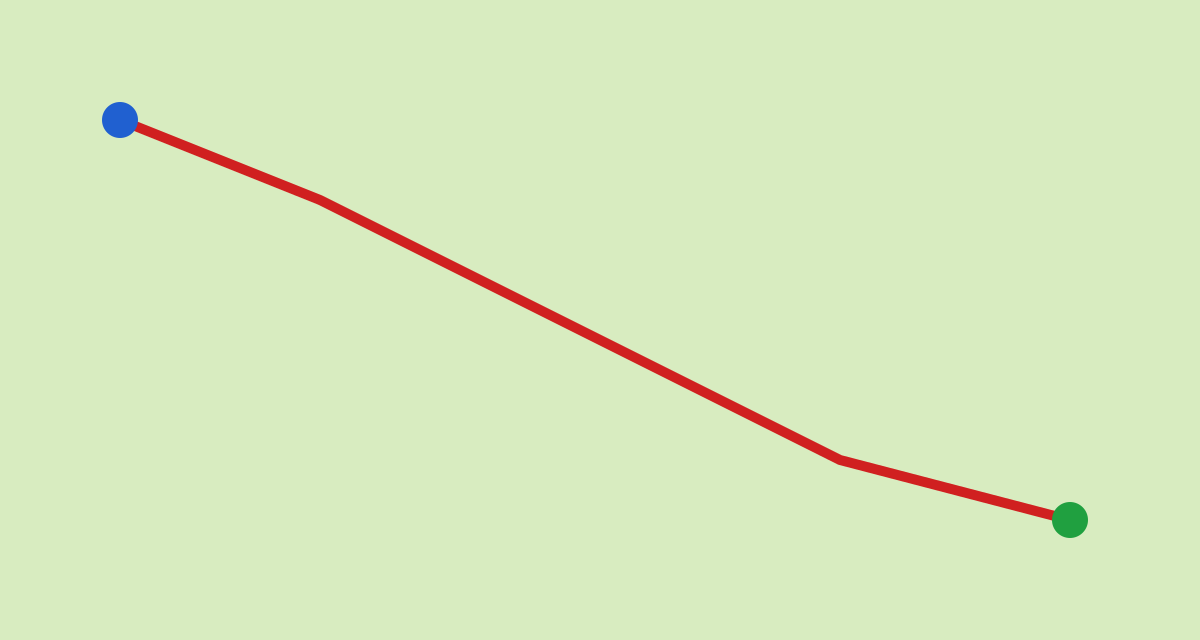
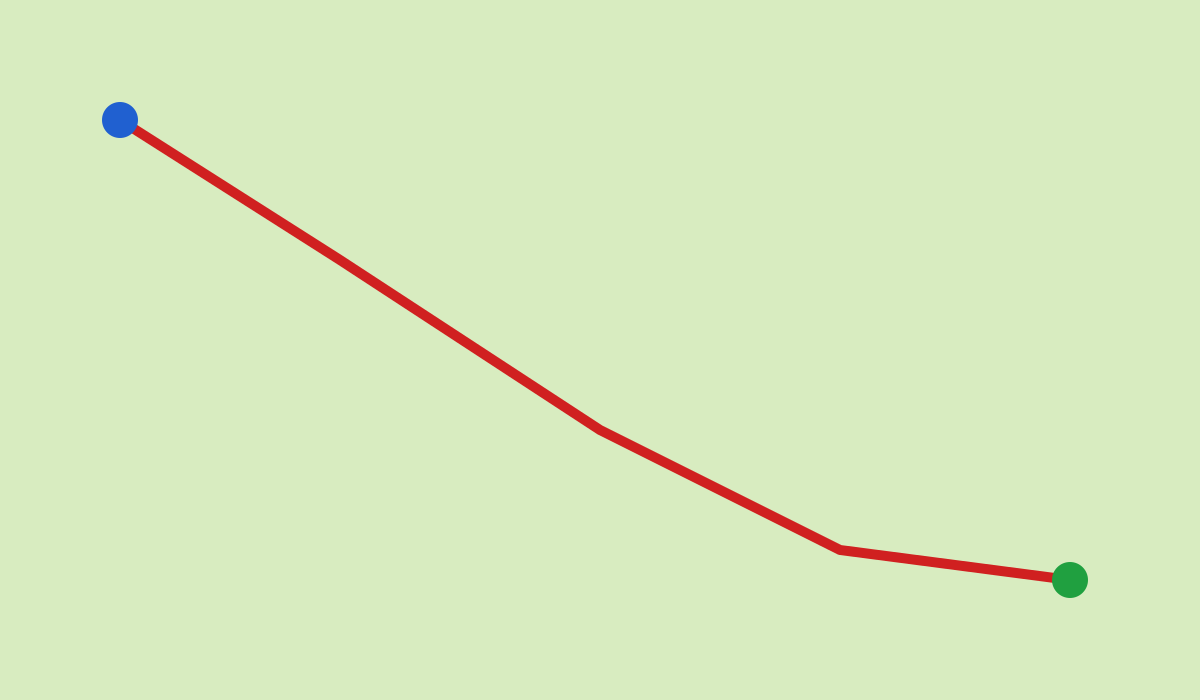
fix: School lower and left, roads door to door and clear of every building; guides and road aspect ratios updated

diff --git a/EvasLearningWorld/Assets/Eva/Tests/PlacesTests.cs b/EvasLearningWorld/Assets/Eva/Tests/PlacesTests.cs
@@ -50,11 +50,11 @@ namespace EvasLearningWorld.Tests
         public void InitialCompositionMatchesTheSpecNumbers()
         {
             AssertBox(Places.Find(PlaceId.House).TapBox, 60f, -30f, 320f, 280f);
-            AssertBox(Places.Find(PlaceId.School).TapBox, -400f, 40f, 280f, 240f);
-            AssertBox(Places.Find(PlaceId.Store).TapBox, 470f, -250f, 280f, 240f);
+            AssertBox(Places.Find(PlaceId.School).TapBox, -470f, -10f, 280f, 240f);
+            AssertBox(Places.Find(PlaceId.Store).TapBox, 490f, -225f, 280f, 240f);
             AssertPoint(Places.Find(PlaceId.House).StandingSpot, -120f, -300f);
-            AssertPoint(Places.Find(PlaceId.School).StandingSpot, -400f, -120f);
-            AssertPoint(Places.Find(PlaceId.Store).StandingSpot, 535f, -390f);
+            AssertPoint(Places.Find(PlaceId.School).StandingSpot, -470f, -170f);
+            AssertPoint(Places.Find(PlaceId.Store).StandingSpot, 535f, -420f);
             AssertPoint(Places.Junction, 60f, -190f);
             AssertPoint(Places.InitialView, 0f, 0f);
         }
@@ -118,6 +118,30 @@ namespace EvasLearningWorld.Tests
             for (var i = 1; i < school.Count; i++)
             for (var j = 1; j < store.Count; j++)
                 Assert.IsFalse(Crosses(school[i - 1], school[i], store[j - 1], store[j]) && !(i == 1 && j == 1), "roads cross");
+        }
+
+        // A road never runs through any building's tap box (the ends stop at the door, just outside it).
+        [Test]
+        public void RoadsNeverEnterAnyTapBox()
+        {
+            foreach (var place in Places.All)
+            foreach (var building in Places.All)
+            {
+                var box = building.TapBox;
+                for (var i = 0; i < place.Road.Count; i++)
+                {
+                    Assert.IsFalse(box.Contains(place.Road[i]), place.Id + " road point " + i + " is inside the " + building.Id + " tap box");
+                    if (i == 0) continue;
+                    var a = place.Road[i - 1];
+                    var b = place.Road[i];
+                    for (var s = 1; s < 200; s++)
+                    {
+                        var t = s / 200f;
+                        Assert.IsFalse(box.Contains(new WorldPoint(a.X + (b.X - a.X) * t, a.Y + (b.Y - a.Y) * t)),
+                            place.Id + " road segment " + i + " runs through the " + building.Id + " tap box");
+                    }
+                }
+            }
         }
 
         // True when two segments properly intersect (a shared start point does not count; callers skip the first pair).

diff --git a/EvasLearningWorld/Assets/Eva/Rules/Places.cs b/EvasLearningWorld/Assets/Eva/Rules/Places.cs
@@ -85,21 +85,21 @@ namespace EvasLearningWorld.Rules
             new Place(PlaceId.House, "House", new WorldBox(60f, -30f, 320f, 280f),
                 new[] { Junction }, new WorldPoint(-120f, -300f), null,
                 "world/place_house", null, "place_house"),
-            new Place(PlaceId.School, "School", new WorldBox(-400f, 40f, 280f, 240f),
+            new Place(PlaceId.School, "School", new WorldBox(-470f, -10f, 280f, 240f),
                 new[]
                 {
-                    Junction, new WorldPoint(-40f, -200f), new WorldPoint(-180f, -190f),
-                    new WorldPoint(-320f, -150f), new WorldPoint(-400f, -120f)
+                    Junction, new WorldPoint(-40f, -205f), new WorldPoint(-200f, -200f),
+                    new WorldPoint(-350f, -185f), new WorldPoint(-470f, -170f)
                 },
-                new WorldPoint(-400f, -120f), new WorldBox(-170f, -160f, 580f, 200f),
+                new WorldPoint(-470f, -170f), new WorldBox(-205f, -188f, 650f, 200f),
                 "world/place_school", "world/road_school", "place_school"),
-            new Place(PlaceId.Store, "Store", new WorldBox(470f, -250f, 280f, 240f),
+            new Place(PlaceId.Store, "Store", new WorldBox(490f, -225f, 280f, 240f),
                 new[]
                 {
-                    Junction, new WorldPoint(160f, -230f), new WorldPoint(300f, -300f),
-                    new WorldPoint(420f, -360f), new WorldPoint(535f, -390f)
+                    Junction, new WorldPoint(170f, -260f), new WorldPoint(300f, -345f),
+                    new WorldPoint(420f, -405f), new WorldPoint(535f, -420f)
                 },
-                new WorldPoint(535f, -390f), new WorldBox(300f, -290f, 600f, 320f),
+                new WorldPoint(535f, -420f), new WorldBox(300f, -305f, 600f, 350f),
                 "world/place_store", "world/road_store", "place_store"),
         };
 

diff --git a/art/eva/map/PROMPTS.md b/art/eva/map/PROMPTS.md
@@ -30,7 +30,7 @@ Add: "If your tool can produce a real transparent background, use that instead o
 
 Attach `layout-guide.png`; one prompt each.
 
-Use the small per-road guides instead of the big layout guide: attach `road_school_guide.png` for the School road and `road_store_guide.png` for the Store road (one prompt each). "Attached is a guide picture with a red line, a blue dot at the start and a green dot at the end. Draw ONE natural dirt footpath for a children's game map that runs exactly along the red line, from the blue dot to the green dot: the middle of the path must lie on the red line the whole way, and the path must have the same overall direction and the same gentle bends as the line (do not add extra curves, loops or S-bends, and do not flip it). The path is about 180 px wide in this picture, worn earth with a few tiny pebbles and a few grass tufts along the edges, soft irregular edges that blend into grass. The path starts exactly at the blue dot, which is the house door, and ends exactly at the green dot, which is the building's door: it is one single path, with no branches, no side paths, no fork and no extension past either end, and it never crosses or touches another road. Both ends are rounded and fade softly into grass exactly at the two dots (do not run the path off the picture edge). Draw only the path on a plain solid magenta (#ff00ff) background, the picture exactly the same size and shape as the guide (29:10 for the School road, 15:8 for the Store road), nothing else: no red line, no dots, no buildings, no arrows, no text, no bushes, flowers or stones lying across the path. Same soft polished 3D-look children's game illustration style as the rest. File name: road_school.png (or road_store.png)."
+Use the small per-road guides instead of the big layout guide: attach `road_school_guide.png` for the School road and `road_store_guide.png` for the Store road (one prompt each). "Attached is a guide picture with a red line, a blue dot at the start and a green dot at the end. Draw ONE natural dirt footpath for a children's game map that runs exactly along the red line, from the blue dot to the green dot: the middle of the path must lie on the red line the whole way, and the path must have the same overall direction and the same gentle bends as the line (do not add extra curves, loops or S-bends, and do not flip it). The path is about 180 px wide in this picture, worn earth with a few tiny pebbles and a few grass tufts along the edges, soft irregular edges that blend into grass. The path starts exactly at the blue dot, which is the house door, and ends exactly at the green dot, which is the building's door: it is one single path, with no branches, no side paths, no fork and no extension past either end, and it never crosses or touches another road. Both ends are rounded and fade softly into grass exactly at the two dots (do not run the path off the picture edge). Draw only the path on a plain solid magenta (#ff00ff) background, the picture exactly the same size and shape as the guide (13:4 for the School road, 12:7 for the Store road), nothing else: no red line, no dots, no buildings, no arrows, no text, no bushes, flowers or stones lying across the path. Same soft polished 3D-look children's game illustration style as the rest. File name: road_school.png (or road_store.png)."
 
 ## Checklist
 
